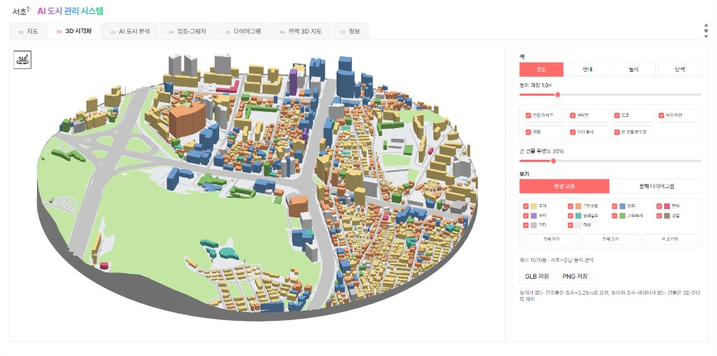
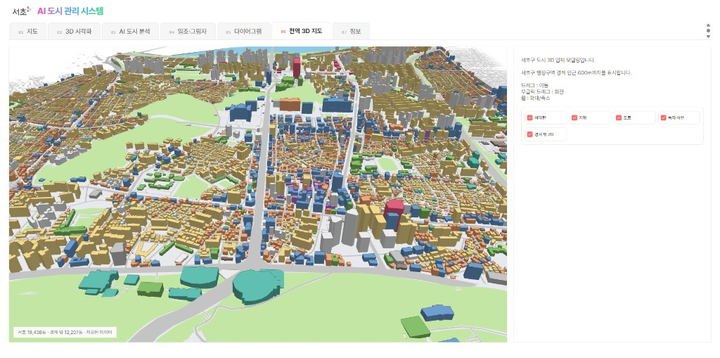
docs: 전역 3D 화면을 README 가운데에 넣는다

diff --git a/README.md b/README.md
@@ -2,7 +2,9 @@
 
 > 말로 읽고, 3D로 고쳐 보는 서초구 AI 도시 관리 시스템
 
-![3D 시각화](docs/seocho-city3d.png)
+<p align="center">
+  <img src="docs/seocho-city3d.png" alt="서초구 전역 3D 지도" width="720">
+</p>
 
 ![Python](https://img.shields.io/badge/Python-3.11%2B-3776AB?logo=python&logoColor=white)
 ![TypeScript](https://img.shields.io/badge/TypeScript-6.0-3178C6?logo=typescript&logoColor=white)
